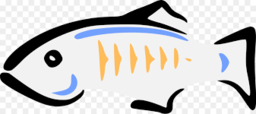
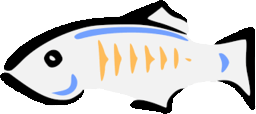
[PR 697] + bump version 0.21.1.2

diff --git a/CHANGELOG.md b/CHANGELOG.md
@@ -4,7 +4,8 @@
 
  Have this PR inside:
 
-- [ feat(provider): Replace IBM resources #655] https://github.com/mingrammer/diagrams/pull/655 /!\ This one will break for IBM user ☜(꒡⌓꒡) >= 0.21.1.1
+- [feat(node): Onprem network remove white backgound #697] https://github.com/mingrammer/diagrams/pull/697
+- [feat(provider): Replace IBM resources #655] https://github.com/mingrammer/diagrams/pull/655 /!\ This one will break for IBM user ☜(꒡⌓꒡) >= 0.21.1.1
 - [feat(scripts): provide diagrams CLI #524] https://github.com/mingrammer/diagrams/pull/524
 - [Support attributes on custom node #529] https://github.com/mingrammer/diagrams/pull/529
 - [docs(edge): Add @clayms examples] https://github.com/mingrammer/diagrams/pull/495
